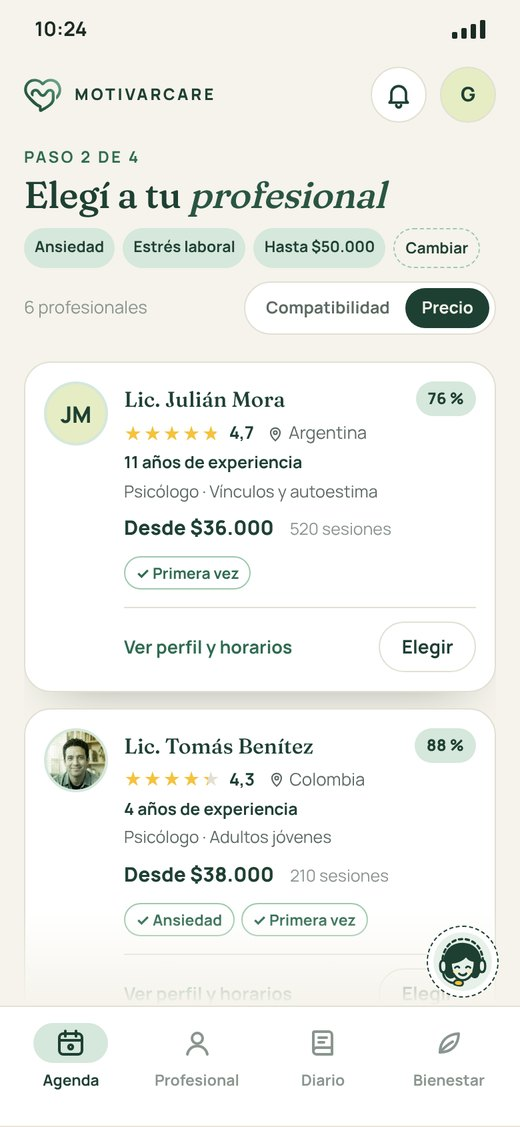
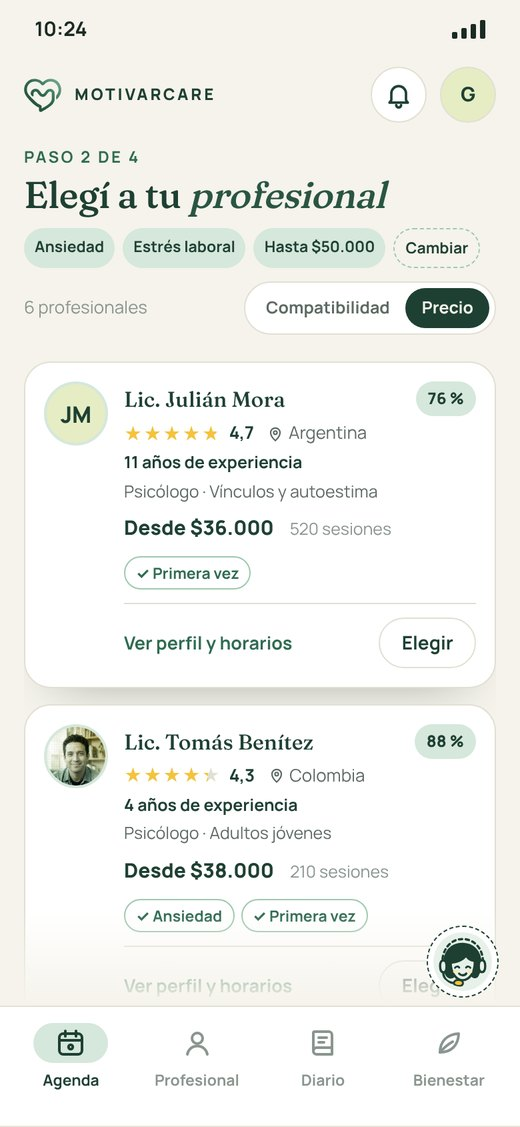
App del usuario: elección de profesional en una sola columna
Las tarjetas ocupan una columna más ancha y "Lo que nos contaste" pasa a la derecha.

Claude-Session: https://claude.ai/code/session_01WU1DRv73FL9hgnWuzdh2zM

diff --git a/web/public/app-usuario/agenda.html b/web/public/app-usuario/agenda.html
@@ -397,7 +397,7 @@ ul.lista-simple { padding: 0; }
 .ag-fila.hoy .cuando { font: 500 28px/1.05 var(--serif); font-variation-settings: 'SOFT' 60; color: var(--bosque); }
 .ag-mini { font-size: 12.5px; font-weight: 700; color: var(--verde-medio); white-space: nowrap; }
 .nav-tel.cuatro { grid-template-columns: repeat(4, 1fr); }
-.el-grid { display: grid; grid-template-columns: 270px 1fr; gap: 22px; }
+.el-grid { display: grid; grid-template-columns: minmax(0,1fr) 290px; gap: 28px; }
 .el-contaste { padding: 20px; display: flex; flex-direction: column; gap: 12px; align-self: start; }
 .el-contaste h3 { font: 700 15px/1.3 var(--sans); color: var(--bosque); }
 .el-contaste .grupo { display: flex; flex-direction: column; gap: 6px; }
@@ -409,7 +409,7 @@ ul.lista-simple { padding: 0; }
 .el-orden { display: inline-flex; padding: 4px; border-radius: 99px; background: var(--superficie); border: 1px solid var(--linea); margin-left: auto; }
 .el-orden span { padding: 7px 14px; border-radius: 99px; font-size: 13.5px; font-weight: 700; color: var(--tinta-suave); white-space: nowrap; }
 .el-orden span.on { background: var(--bosque); color: var(--crema); }
-.el-lista { position: relative; display: grid; grid-template-columns: 1fr 1fr; gap: 14px; max-height: 772px; overflow: hidden; padding-top: 12px; }
+.el-lista { position: relative; display: grid; grid-template-columns: 1fr; gap: 14px; max-height: 772px; overflow: hidden; padding-top: 12px; }
 .el-lista::after { content: ''; position: absolute; left: 0; right: 0; bottom: 0; height: 110px; background: linear-gradient(rgba(245,243,235,0), var(--crema)); pointer-events: none; }
 .el-scroll { position: absolute; right: -14px; top: 0; width: 5px; height: 760px; border-radius: 9px; background: var(--linea); }
 .el-scroll i { display: block; width: 5px; height: 220px; border-radius: 9px; background: var(--salvia-fuerte); }
@@ -440,6 +440,13 @@ ul.lista-simple { padding: 0; }
 .encaja span { font-size: 11.5px; font-weight: 700; color: var(--verde-medio); border: 1px solid var(--salvia-fuerte); border-radius: 99px; padding: 3px 8px; }
 .pie-pro { display: flex; align-items: center; justify-content: space-between; margin-top: 10px; padding-top: 10px; border-top: 1px solid var(--linea); }
 .pie-pro .boton { height: 38px; padding: 0 16px; font-size: 14px; }
+.el-lista .tarjeta-pro { grid-template-columns: 76px minmax(0,1fr); gap: 18px; padding: 20px 22px; }
+.el-lista .avatar-pro { width: 76px; height: 76px; }
+.el-lista .tarjeta-pro .nombre b { font-size: 20px; }
+.el-lista .tarjeta-pro .bio { -webkit-line-clamp: 3; max-width: 640px; font-size: 13.5px; }
+.el-lista .pie-pro { border-top: 0; padding-top: 0; margin-top: -2px; justify-content: flex-end; gap: 18px; }
+.el-lista .encaja-fila { display: flex; align-items: flex-end; justify-content: space-between; gap: 16px; margin-top: 6px; }
+.el-lista .encaja-fila .encaja { margin-top: 0; }
 .tel .tarjeta-pro { grid-template-columns: 48px minmax(0,1fr); gap: 12px; padding: 14px; }
 .tel .avatar-pro { width: 48px; height: 48px; }
 .tel .tarjeta-pro .nombre b { font-size: 16px; }
@@ -550,15 +557,6 @@ ul.lista-simple { padding: 0; }
     <div class="contenido">
       <div class="saludo" style="margin-bottom:16px"><span class="t-fecha">Paso 2 de 4 · Tu primera sesión</span><h1 class="t1">Elegí a tu <em>profesional</em></h1><p class="bajada">Los ordenamos según lo que nos contaste. Elegí con calma: podés ver el perfil y los horarios de cada uno.</p></div>
       <div class="el-grid">
-        <aside class="tarjeta el-contaste">
-          <h3>Lo que nos contaste</h3>
-          <div class="grupo"><small>Querés trabajar</small><div class="el-tags"><span>Ansiedad</span><span>Estrés laboral</span></div></div>
-          <div class="grupo"><small>Tu experiencia</small><div class="el-tags"><span>Primera vez en terapia</span></div></div>
-          <div class="grupo"><small>Preferís</small><div class="el-tags"><span>Por videollamada</span><span>De tarde</span></div></div>
-          <div class="grupo"><small>Tu presupuesto</small><div class="el-tags"><span>Hasta $50.000 por sesión</span></div></div>
-          <a class="enlace" style="font-size:13.5px">Cambiar mis respuestas</a>
-          <p class="tenue" style="font-size:12.5px;border-top:1px solid var(--linea);padding-top:12px">La compatibilidad compara tus respuestas con la experiencia y el enfoque de cada profesional. El precio es el de una sesión; los paquetes tienen descuento.</p>
-        </aside>
         <div>
           <div class="el-barra"><b>6 profesionales para vos</b><span class="tenue">Todos con matrícula verificada</span>
             <span class="el-orden"><span class="on">Compatibilidad</span><span>Precio: menor a mayor</span></span></div>
@@ -569,8 +567,8 @@ ul.lista-simple { padding: 0; }
     <span class="exp">9 años de experiencia</span><span class="esp">Psicóloga clínica · Ansiedad y estrés</span>
     <div class="datos-pro"><span class="precio">Desde $42.000</span><span class="sesiones">640 sesiones</span></div>
     <p class="bio">Acompaño procesos de ansiedad y estrés laboral desde la terapia cognitivo-conductual, con herramientas para el día a día.</p>
-    <div class="encaja"><span>✓ Ansiedad</span><span>✓ Estrés laboral</span><span>✓ Primera vez</span></div>
-    <div class="pie-pro"><a class="enlace" style="font-size:13.5px">Ver perfil y horarios</a><a class="boton primario">Elegir</a></div>
+    <div class="encaja-fila"><div class="encaja"><span>✓ Ansiedad</span><span>✓ Estrés laboral</span><span>✓ Primera vez</span></div>
+    <div class="pie-pro"><a class="enlace" style="font-size:13.5px">Ver perfil y horarios</a><a class="boton primario">Elegir</a></div></div>
   </div>
 </article><article class="tarjeta-pro"><img class="avatar-pro" src="../landing/img/profesionales/tomas-benitez.jpg" alt="" width="60" height="60">
   <div class="info">
@@ -579,8 +577,8 @@ ul.lista-simple { padding: 0; }
     <span class="exp">4 años de experiencia</span><span class="esp">Psicólogo · Adultos jóvenes</span>
     <div class="datos-pro"><span class="precio">Desde $38.000</span><span class="sesiones">210 sesiones</span></div>
     <p class="bio">Trabajo con adultos jóvenes en vínculos, identidad y cambios de etapa, desde un enfoque sistémico.</p>
-    <div class="encaja"><span>✓ Ansiedad</span><span>✓ Primera vez</span></div>
-    <div class="pie-pro"><a class="enlace" style="font-size:13.5px">Ver perfil y horarios</a><a class="boton contorno">Elegir</a></div>
+    <div class="encaja-fila"><div class="encaja"><span>✓ Ansiedad</span><span>✓ Primera vez</span></div>
+    <div class="pie-pro"><a class="enlace" style="font-size:13.5px">Ver perfil y horarios</a><a class="boton contorno">Elegir</a></div></div>
   </div>
 </article><article class="tarjeta-pro"><img class="avatar-pro" src="../landing/img/profesionales/monica-aranda.jpg" alt="" width="60" height="60">
   <div class="info">
@@ -589,8 +587,8 @@ ul.lista-simple { padding: 0; }
     <span class="exp">22 años de experiencia</span><span class="esp">Psicóloga · Duelo y vínculos</span>
     <div class="datos-pro"><span class="precio">Desde $55.000</span><span class="sesiones">1.150 sesiones</span></div>
     <p class="bio">Más de veinte años acompañando duelos, separaciones y crisis vitales desde el psicoanálisis.</p>
-    <div class="encaja"><span>✓ Estrés laboral</span></div>
-    <div class="pie-pro"><a class="enlace" style="font-size:13.5px">Ver perfil y horarios</a><a class="boton contorno">Elegir</a></div>
+    <div class="encaja-fila"><div class="encaja"><span>✓ Estrés laboral</span></div>
+    <div class="pie-pro"><a class="enlace" style="font-size:13.5px">Ver perfil y horarios</a><a class="boton contorno">Elegir</a></div></div>
   </div>
 </article><article class="tarjeta-pro"><img class="avatar-pro" src="../landing/img/profesionales/andres-salvatierra.jpg" alt="" width="60" height="60">
   <div class="info">
@@ -599,8 +597,8 @@ ul.lista-simple { padding: 0; }
     <span class="exp">15 años de experiencia</span><span class="esp">Psicólogo · Parejas y familias</span>
     <div class="datos-pro"><span class="precio">Desde $48.000</span><span class="sesiones">860 sesiones</span></div>
     <p class="bio">Acompaño a parejas y personas en momentos de cambio, con foco en la comunicación y los acuerdos.</p>
-    <div class="encaja"><span>✓ Estrés laboral</span></div>
-    <div class="pie-pro"><a class="enlace" style="font-size:13.5px">Ver perfil y horarios</a><a class="boton contorno">Elegir</a></div>
+    <div class="encaja-fila"><div class="encaja"><span>✓ Estrés laboral</span></div>
+    <div class="pie-pro"><a class="enlace" style="font-size:13.5px">Ver perfil y horarios</a><a class="boton contorno">Elegir</a></div></div>
   </div>
 </article><article class="tarjeta-pro"><span class="avatar-pro ini" style="font-size:17px">PR</span>
   <div class="info">
@@ -609,8 +607,8 @@ ul.lista-simple { padding: 0; }
     <span class="exp">7 años de experiencia</span><span class="esp">Psicóloga · Ansiedad y autoestima</span>
     <div class="datos-pro"><span class="precio">Desde $40.000</span><span class="sesiones">390 sesiones</span></div>
     <p class="bio">Trabajo con ansiedad y autoestima desde la terapia de aceptación y compromiso.</p>
-    <div class="encaja"><span>✓ Ansiedad</span></div>
-    <div class="pie-pro"><a class="enlace" style="font-size:13.5px">Ver perfil y horarios</a><a class="boton contorno">Elegir</a></div>
+    <div class="encaja-fila"><div class="encaja"><span>✓ Ansiedad</span></div>
+    <div class="pie-pro"><a class="enlace" style="font-size:13.5px">Ver perfil y horarios</a><a class="boton contorno">Elegir</a></div></div>
   </div>
 </article><article class="tarjeta-pro"><span class="avatar-pro ini" style="font-size:17px">JM</span>
   <div class="info">
@@ -619,11 +617,20 @@ ul.lista-simple { padding: 0; }
     <span class="exp">11 años de experiencia</span><span class="esp">Psicólogo · Vínculos y autoestima</span>
     <div class="datos-pro"><span class="precio">Desde $36.000</span><span class="sesiones">520 sesiones</span></div>
     <p class="bio">Acompaño a adultos en vínculos y autoestima, con un enfoque integrativo.</p>
-    <div class="encaja"><span>✓ Primera vez</span></div>
-    <div class="pie-pro"><a class="enlace" style="font-size:13.5px">Ver perfil y horarios</a><a class="boton contorno">Elegir</a></div>
+    <div class="encaja-fila"><div class="encaja"><span>✓ Primera vez</span></div>
+    <div class="pie-pro"><a class="enlace" style="font-size:13.5px">Ver perfil y horarios</a><a class="boton contorno">Elegir</a></div></div>
   </div>
 </article></div><span class="el-scroll"><i></i></span></div>
         </div>
+        <aside class="tarjeta el-contaste">
+          <h3>Lo que nos contaste</h3>
+          <div class="grupo"><small>Querés trabajar</small><div class="el-tags"><span>Ansiedad</span><span>Estrés laboral</span></div></div>
+          <div class="grupo"><small>Tu experiencia</small><div class="el-tags"><span>Primera vez en terapia</span></div></div>
+          <div class="grupo"><small>Preferís</small><div class="el-tags"><span>Por videollamada</span><span>De tarde</span></div></div>
+          <div class="grupo"><small>Tu presupuesto</small><div class="el-tags"><span>Hasta $50.000 por sesión</span></div></div>
+          <a class="enlace" style="font-size:13.5px">Cambiar mis respuestas</a>
+          <p class="tenue" style="font-size:12.5px;border-top:1px solid var(--linea);padding-top:12px">La compatibilidad compara tus respuestas con la experiencia y el enfoque de cada profesional. El precio es el de una sesión; los paquetes tienen descuento.</p>
+        </aside>
       </div>
     </div>
   </main>
@@ -646,8 +653,8 @@ ul.lista-simple { padding: 0; }
     <span class="exp">9 años de experiencia</span><span class="esp">Psicóloga clínica · Ansiedad y estrés</span>
     <div class="datos-pro"><span class="precio">Desde $42.000</span><span class="sesiones">640 sesiones</span></div>
     
-    <div class="encaja"><span>✓ Ansiedad</span><span>✓ Estrés laboral</span><span>✓ Primera vez</span></div>
-    <div class="pie-pro"><a class="enlace" style="font-size:13.5px">Ver perfil y horarios</a><a class="boton primario">Elegir</a></div>
+    <div class="encaja-fila"><div class="encaja"><span>✓ Ansiedad</span><span>✓ Estrés laboral</span><span>✓ Primera vez</span></div>
+    <div class="pie-pro"><a class="enlace" style="font-size:13.5px">Ver perfil y horarios</a><a class="boton primario">Elegir</a></div></div>
   </div>
 </article><article class="tarjeta-pro"><img class="avatar-pro" src="../landing/img/profesionales/tomas-benitez.jpg" alt="" width="60" height="60">
   <div class="info">
@@ -656,8 +663,8 @@ ul.lista-simple { padding: 0; }
     <span class="exp">4 años de experiencia</span><span class="esp">Psicólogo · Adultos jóvenes</span>
     <div class="datos-pro"><span class="precio">Desde $38.000</span><span class="sesiones">210 sesiones</span></div>
     
-    <div class="encaja"><span>✓ Ansiedad</span><span>✓ Primera vez</span></div>
-    <div class="pie-pro"><a class="enlace" style="font-size:13.5px">Ver perfil y horarios</a><a class="boton contorno">Elegir</a></div>
+    <div class="encaja-fila"><div class="encaja"><span>✓ Ansiedad</span><span>✓ Primera vez</span></div>
+    <div class="pie-pro"><a class="enlace" style="font-size:13.5px">Ver perfil y horarios</a><a class="boton contorno">Elegir</a></div></div>
   </div>
 </article><article class="tarjeta-pro"><img class="avatar-pro" src="../landing/img/profesionales/monica-aranda.jpg" alt="" width="60" height="60">
   <div class="info">
@@ -666,8 +673,8 @@ ul.lista-simple { padding: 0; }
     <span class="exp">22 años de experiencia</span><span class="esp">Psicóloga · Duelo y vínculos</span>
     <div class="datos-pro"><span class="precio">Desde $55.000</span><span class="sesiones">1.150 sesiones</span></div>
     
-    <div class="encaja"><span>✓ Estrés laboral</span></div>
-    <div class="pie-pro"><a class="enlace" style="font-size:13.5px">Ver perfil y horarios</a><a class="boton contorno">Elegir</a></div>
+    <div class="encaja-fila"><div class="encaja"><span>✓ Estrés laboral</span></div>
+    <div class="pie-pro"><a class="enlace" style="font-size:13.5px">Ver perfil y horarios</a><a class="boton contorno">Elegir</a></div></div>
   </div>
 </article></div>
   </div>
@@ -692,8 +699,8 @@ ul.lista-simple { padding: 0; }
     <span class="exp">11 años de experiencia</span><span class="esp">Psicólogo · Vínculos y autoestima</span>
     <div class="datos-pro"><span class="precio">Desde $36.000</span><span class="sesiones">520 sesiones</span></div>
     
-    <div class="encaja"><span>✓ Primera vez</span></div>
-    <div class="pie-pro"><a class="enlace" style="font-size:13.5px">Ver perfil y horarios</a><a class="boton contorno">Elegir</a></div>
+    <div class="encaja-fila"><div class="encaja"><span>✓ Primera vez</span></div>
+    <div class="pie-pro"><a class="enlace" style="font-size:13.5px">Ver perfil y horarios</a><a class="boton contorno">Elegir</a></div></div>
   </div>
 </article><article class="tarjeta-pro"><img class="avatar-pro" src="../landing/img/profesionales/tomas-benitez.jpg" alt="" width="60" height="60">
   <div class="info">
@@ -702,8 +709,8 @@ ul.lista-simple { padding: 0; }
     <span class="exp">4 años de experiencia</span><span class="esp">Psicólogo · Adultos jóvenes</span>
     <div class="datos-pro"><span class="precio">Desde $38.000</span><span class="sesiones">210 sesiones</span></div>
     
-    <div class="encaja"><span>✓ Ansiedad</span><span>✓ Primera vez</span></div>
-    <div class="pie-pro"><a class="enlace" style="font-size:13.5px">Ver perfil y horarios</a><a class="boton contorno">Elegir</a></div>
+    <div class="encaja-fila"><div class="encaja"><span>✓ Ansiedad</span><span>✓ Primera vez</span></div>
+    <div class="pie-pro"><a class="enlace" style="font-size:13.5px">Ver perfil y horarios</a><a class="boton contorno">Elegir</a></div></div>
   </div>
 </article><article class="tarjeta-pro"><span class="avatar-pro ini" style="font-size:17px">PR</span>
   <div class="info">
@@ -712,8 +719,8 @@ ul.lista-simple { padding: 0; }
     <span class="exp">7 años de experiencia</span><span class="esp">Psicóloga · Ansiedad y autoestima</span>
     <div class="datos-pro"><span class="precio">Desde $40.000</span><span class="sesiones">390 sesiones</span></div>
     
-    <div class="encaja"><span>✓ Ansiedad</span></div>
-    <div class="pie-pro"><a class="enlace" style="font-size:13.5px">Ver perfil y horarios</a><a class="boton contorno">Elegir</a></div>
+    <div class="encaja-fila"><div class="encaja"><span>✓ Ansiedad</span></div>
+    <div class="pie-pro"><a class="enlace" style="font-size:13.5px">Ver perfil y horarios</a><a class="boton contorno">Elegir</a></div></div>
   </div>
 </article></div>
   </div>

diff --git a/web/public/app-usuario/propuesta/agenda/index.html b/web/public/app-usuario/propuesta/agenda/index.html
@@ -61,7 +61,7 @@
         <div class="texto">
           <span class="chip">Mockup hecho</span>
           <h3>Elegí a tu profesional · por compatibilidad</h3>
-          <p>Tarjetas como las de la landing, en una lista que se recorre con scroll y que se ordena por compatibilidad (de entrada) o por precio. Cada una muestra la valoración con estrellas, el país, el precio base, el porcentaje de compatibilidad y qué parte de lo que la persona contó encaja con cada profesional. Al costado, sus respuestas, para revisarlas o cambiarlas. En el teléfono se ve también el orden por precio.</p>
+          <p>Tarjetas como las de la landing, en una sola columna que se recorre con scroll y que se ordena por compatibilidad (de entrada) o por precio. Cada una muestra la valoración con estrellas, el país, el precio base, el porcentaje de compatibilidad y qué parte de lo que la persona contó encaja con cada profesional. A la derecha, sus respuestas, para revisarlas o cambiarlas. En el teléfono se ve también el orden por precio.</p>
           <a class="boton" href="/app-usuario/agenda.html#agenda-elegir-escritorio">Ver en tamaño real →</a>
         </div>
       </article>
